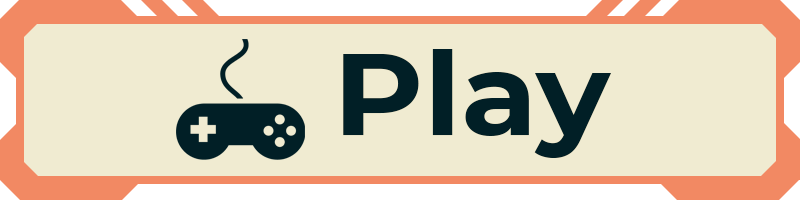
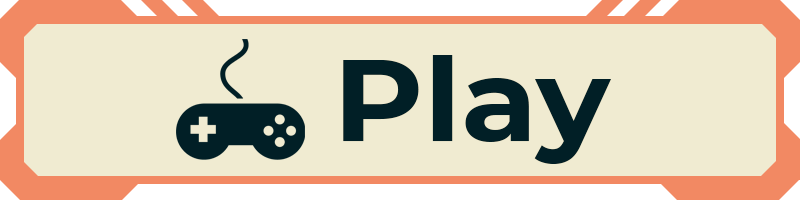
Added another button and background for menu

diff --git a/menu.py b/menu.py
@@ -9,18 +9,24 @@ screen = None
 def init():
     global buttons, screen
     screen = pygame.Surface(settings.SIZE)
-    screen.fill((0, 0, 0))
+
+    background = pygame.image.load('backgrounds/menu_background.jpg').convert_alpha()
+    background = pygame.transform.scale(background, settings.SIZE)
+    screen.blit(background, (0, 0))
 
     play_image = pygame.image.load('buttons_images/play_button.png').convert_alpha()
     shop_image = pygame.image.load('buttons_images/shop_button.png').convert_alpha()
-    play_image = pygame.transform.scale(play_image, (400, 100))
-    shop_image = pygame.transform.scale(shop_image, (400, 100))
+    exit_image = pygame.image.load('buttons_images/exit_button.png').convert_alpha()
+    play_image = pygame.transform.scale(play_image, (400, 100)).convert_alpha()
+    shop_image = pygame.transform.scale(shop_image, (400, 100)).convert_alpha()
+    exit_image = pygame.transform.scale(exit_image, (400, 100)).convert_alpha()
 
-    shop_button = settings.Button(settings.WIDTH // 2 - 200, settings.HEIGHT // 2 - 200, 400, 100, 'switch_to_shop')
-    shop_button.image = shop_image
-    play_button = settings.Button(settings.WIDTH // 2 - 200, settings.HEIGHT // 2 - 50, 400, 100, 'switch_to_levels')
+    play_button = settings.Button(settings.WIDTH // 2 - 200, settings.HEIGHT // 2 - 200, 400, 100, 'switch_to_levels')
     play_button.image = play_image
+    shop_button = settings.Button(settings.WIDTH // 2 - 200, settings.HEIGHT // 2 - 50, 400, 100, 'switch_to_shop')
+    shop_button.image = shop_image
     exit_button = settings.Button(settings.WIDTH // 2 - 200, settings.HEIGHT // 2 + 100, 400, 100, 'exit')
+    exit_button.image = exit_image
     buttons += [exit_button, shop_button, play_button]
 
 
